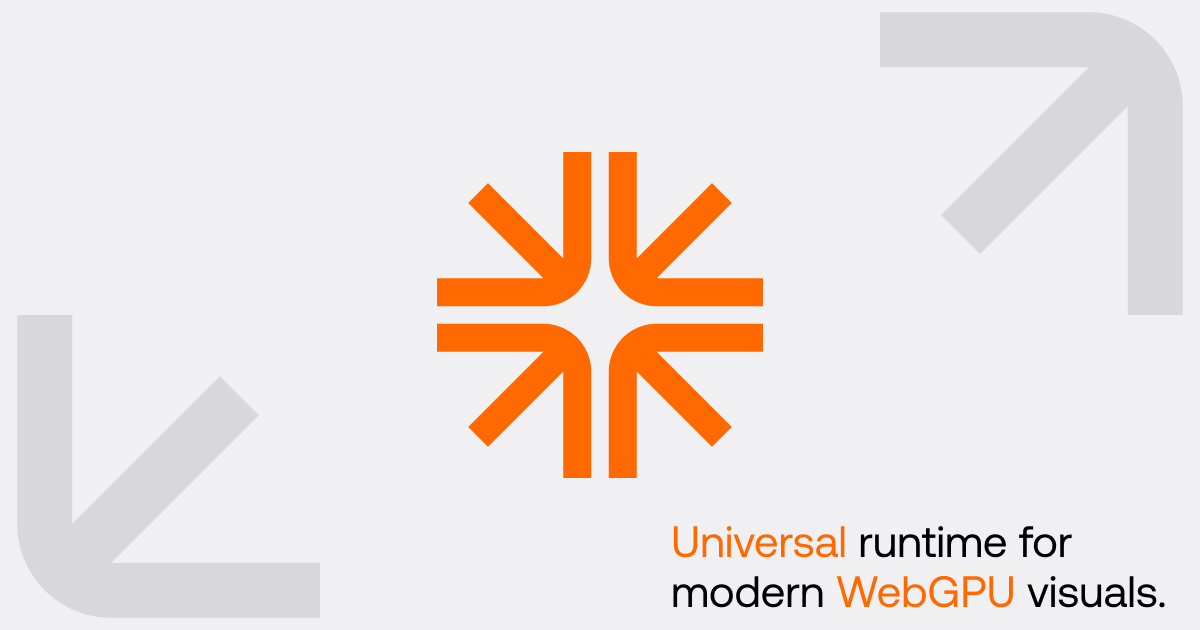
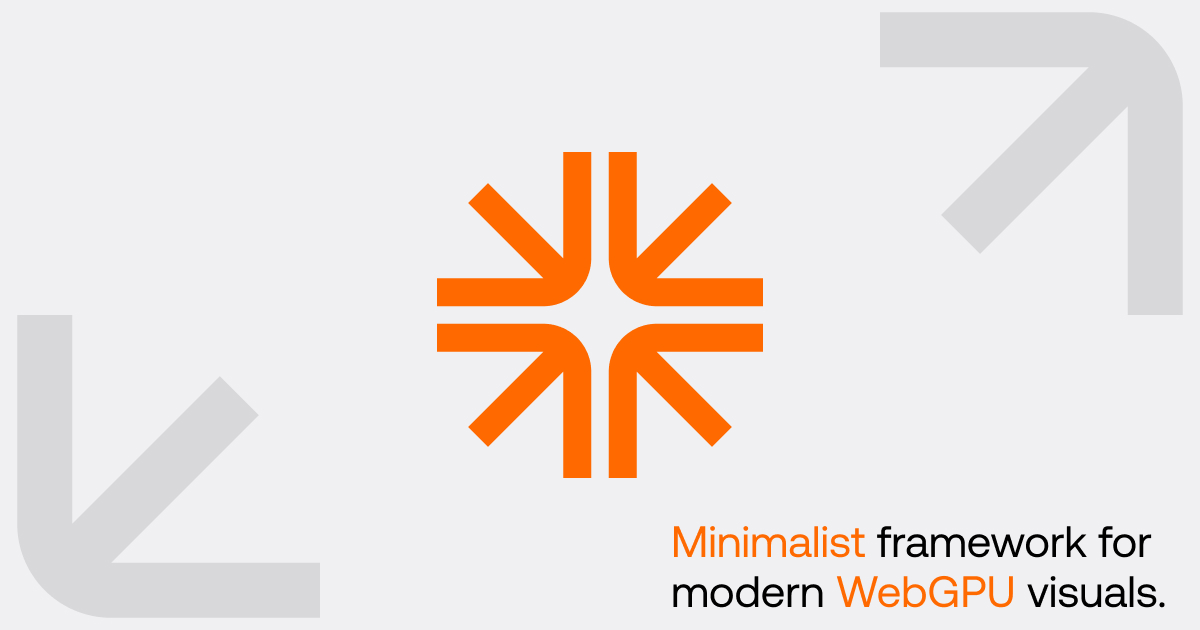
docs(web): align framework-first naming across docs and landing

Changed region(s): [[0.555, 0.8143, 0.9558, 0.9048]]

diff --git a/apps/web/src/lib/config/site.ts b/apps/web/src/lib/config/site.ts
@@ -11,7 +11,7 @@ export const siteConfig = {
 	url: 'https://motion-gpu.dev',
 	/** Default SEO description for the homepage and fallback metadata. */
 	description:
-		'A WebGPU-first library for Svelte 5, React 18/19, and Vue 3. Build high-performance, GPU-accelerated visualizations with a declarative API, strict runtime contracts, and type-safe WGSL shaders.',
+		'A minimalist WebGPU framework for Svelte 5, React 18/19, and Vue 3. Build high-performance, GPU-accelerated visualizations with a declarative API, strict runtime contracts, and type-safe WGSL shaders.',
 	/** Author shown in metadata and structured data. */
 	author: 'Marek Jóźwiak',
 	/** Primary SEO keywords for indexing and discovery. */

diff --git a/apps/web/src/lib/components/home/FAQ.svelte b/apps/web/src/lib/components/home/FAQ.svelte
@@ -15,7 +15,7 @@
 		{
 			question: 'What is Motion GPU?',
 			answer:
-				'Motion GPU is a WebGPU library for building fast fullscreen shader visuals. It gives you a clean path from a single effect to a complete GPU-driven visual layer in your app.'
+				'Motion GPU is a minimalist WebGPU framework for building fast fullscreen shader visuals. It gives you a clean path from a single effect to a complete GPU-driven visual layer in your app.'
 		},
 		{
 			question: 'Who is it for?',

diff --git a/apps/web/src/lib/config/navigation.ts b/apps/web/src/lib/config/navigation.ts
@@ -68,7 +68,7 @@ export const docsNavigation: DocItem[] = [
 			{ slug: 'api-material-reference', name: 'Material API' },
 			{ slug: 'api-hooks-reference', name: 'Hooks API' },
 			{ slug: 'api-passes-reference', name: 'Passes API' },
-			{ slug: 'api-core-reference', name: 'Core Runtime API' },
+			{ slug: 'api-core-reference', name: 'Core API' },
 			{ slug: 'api-advanced-reference', name: 'Advanced API' }
 		]
 	},

diff --git a/apps/web/src/lib/components/home/Hero.svelte b/apps/web/src/lib/components/home/Hero.svelte
@@ -25,7 +25,7 @@
 		<h1
 			class="max-w-3xl text-center text-3xl font-medium tracking-tight text-balance text-foreground sm:text-5xl"
 		>
-			<span class="text-accent">Universal</span> runtime for modern
+			<span class="text-accent">Minimalist</span> framework for modern
 			<span class="text-accent">WebGPU </span> visuals.
 		</h1>
 		<p

diff --git a/README.md b/README.md
@@ -14,7 +14,7 @@
 
 # Motion GPU
 
-**A tiny WebGPU runtime for writing Shadertoy-style fullscreen shaders in pure WGSL.**
+**A minimalist WebGPU framework for writing Shadertoy-style fullscreen shaders in pure WGSL.**
 
 `@motion-core/motion-gpu` ships a framework-agnostic core plus Svelte 5, React, and Vue adapters for building fullscreen shader pipelines using WebGPU and WGSL.
 It provides a minimal runtime loop, scheduler, and render graph designed specifically for fragment-driven GPU programs.
@@ -46,15 +46,15 @@ If your application is primarily a fullscreen fragment shader pipeline, using a 
 Three.js is a powerful general-purpose 3D engine.
 Motion GPU focuses on a much narrower problem: running fullscreen WGSL shader pipelines.
 
-| Feature          | Three.js              | Motion GPU                |
-| ---------------- | --------------------- | ------------------------- |
-| Scope            | Full 3D engine        | Fullscreen shader runtime |
-| Shader language  | TSL / generated WGSL  | Native WGSL               |
-| Bundle size      | large                 | tiny (3.5-5x smaller)     |
-| Rendering model  | Scene graph           | GPU pipeline              |
-| Shader pipeline  | materials             | explicit passes           |
-| Multi-pass       | possible but indirect | first-class               |
-| Shader debugging | generated shaders     | direct WGSL               |
+| Feature          | Three.js              | Motion GPU                  |
+| ---------------- | --------------------- | --------------------------- |
+| Scope            | Full 3D engine        | Fullscreen shader framework |
+| Shader language  | TSL / generated WGSL  | Native WGSL                 |
+| Bundle size      | large                 | tiny (3.5-5x smaller)       |
+| Rendering model  | Scene graph           | GPU pipeline                |
+| Shader pipeline  | materials             | explicit passes             |
+| Multi-pass       | possible but indirect | first-class                 |
+| Shader debugging | generated shaders     | direct WGSL                 |
 
 Motion GPU is **not a replacement for Three.js**.
 

diff --git a/packages/motion-gpu/README.md b/packages/motion-gpu/README.md
@@ -12,7 +12,7 @@
 
 # Motion GPU
 
-**A tiny WebGPU runtime for writing Shadertoy-style fullscreen shaders in pure WGSL.**
+**A minimalist WebGPU framework for writing Shadertoy-style fullscreen shaders in pure WGSL.**
 
 `@motion-core/motion-gpu` ships a framework-agnostic core plus Svelte 5, React, and Vue adapters for building fullscreen shader pipelines using WebGPU and WGSL.
 It provides a minimal runtime loop, scheduler, and render graph designed specifically for fragment-driven GPU programs.
@@ -44,15 +44,15 @@ If your application is primarily a fullscreen fragment shader pipeline, using a 
 Three.js is a powerful general-purpose 3D engine.
 Motion GPU focuses on a much narrower problem: running fullscreen WGSL shader pipelines.
 
-| Feature          | Three.js              | Motion GPU                |
-| ---------------- | --------------------- | ------------------------- |
-| Scope            | Full 3D engine        | Fullscreen shader runtime |
-| Shader language  | TSL / generated WGSL  | Native WGSL               |
-| Bundle size      | large                 | tiny (3.5-5x smaller)     |
-| Rendering model  | Scene graph           | GPU pipeline              |
-| Shader pipeline  | materials             | explicit passes           |
-| Multi-pass       | possible but indirect | first-class               |
-| Shader debugging | generated shaders     | direct WGSL               |
+| Feature          | Three.js              | Motion GPU                  |
+| ---------------- | --------------------- | --------------------------- |
+| Scope            | Full 3D engine        | Fullscreen shader framework |
+| Shader language  | TSL / generated WGSL  | Native WGSL                 |
+| Bundle size      | large                 | tiny (3.5-5x smaller)       |
+| Rendering model  | Scene graph           | GPU pipeline                |
+| Shader pipeline  | materials             | explicit passes             |
+| Multi-pass       | possible but indirect | first-class                 |
+| Shader debugging | generated shaders     | direct WGSL                 |
 
 Motion GPU is **not a replacement for Three.js**.
 
